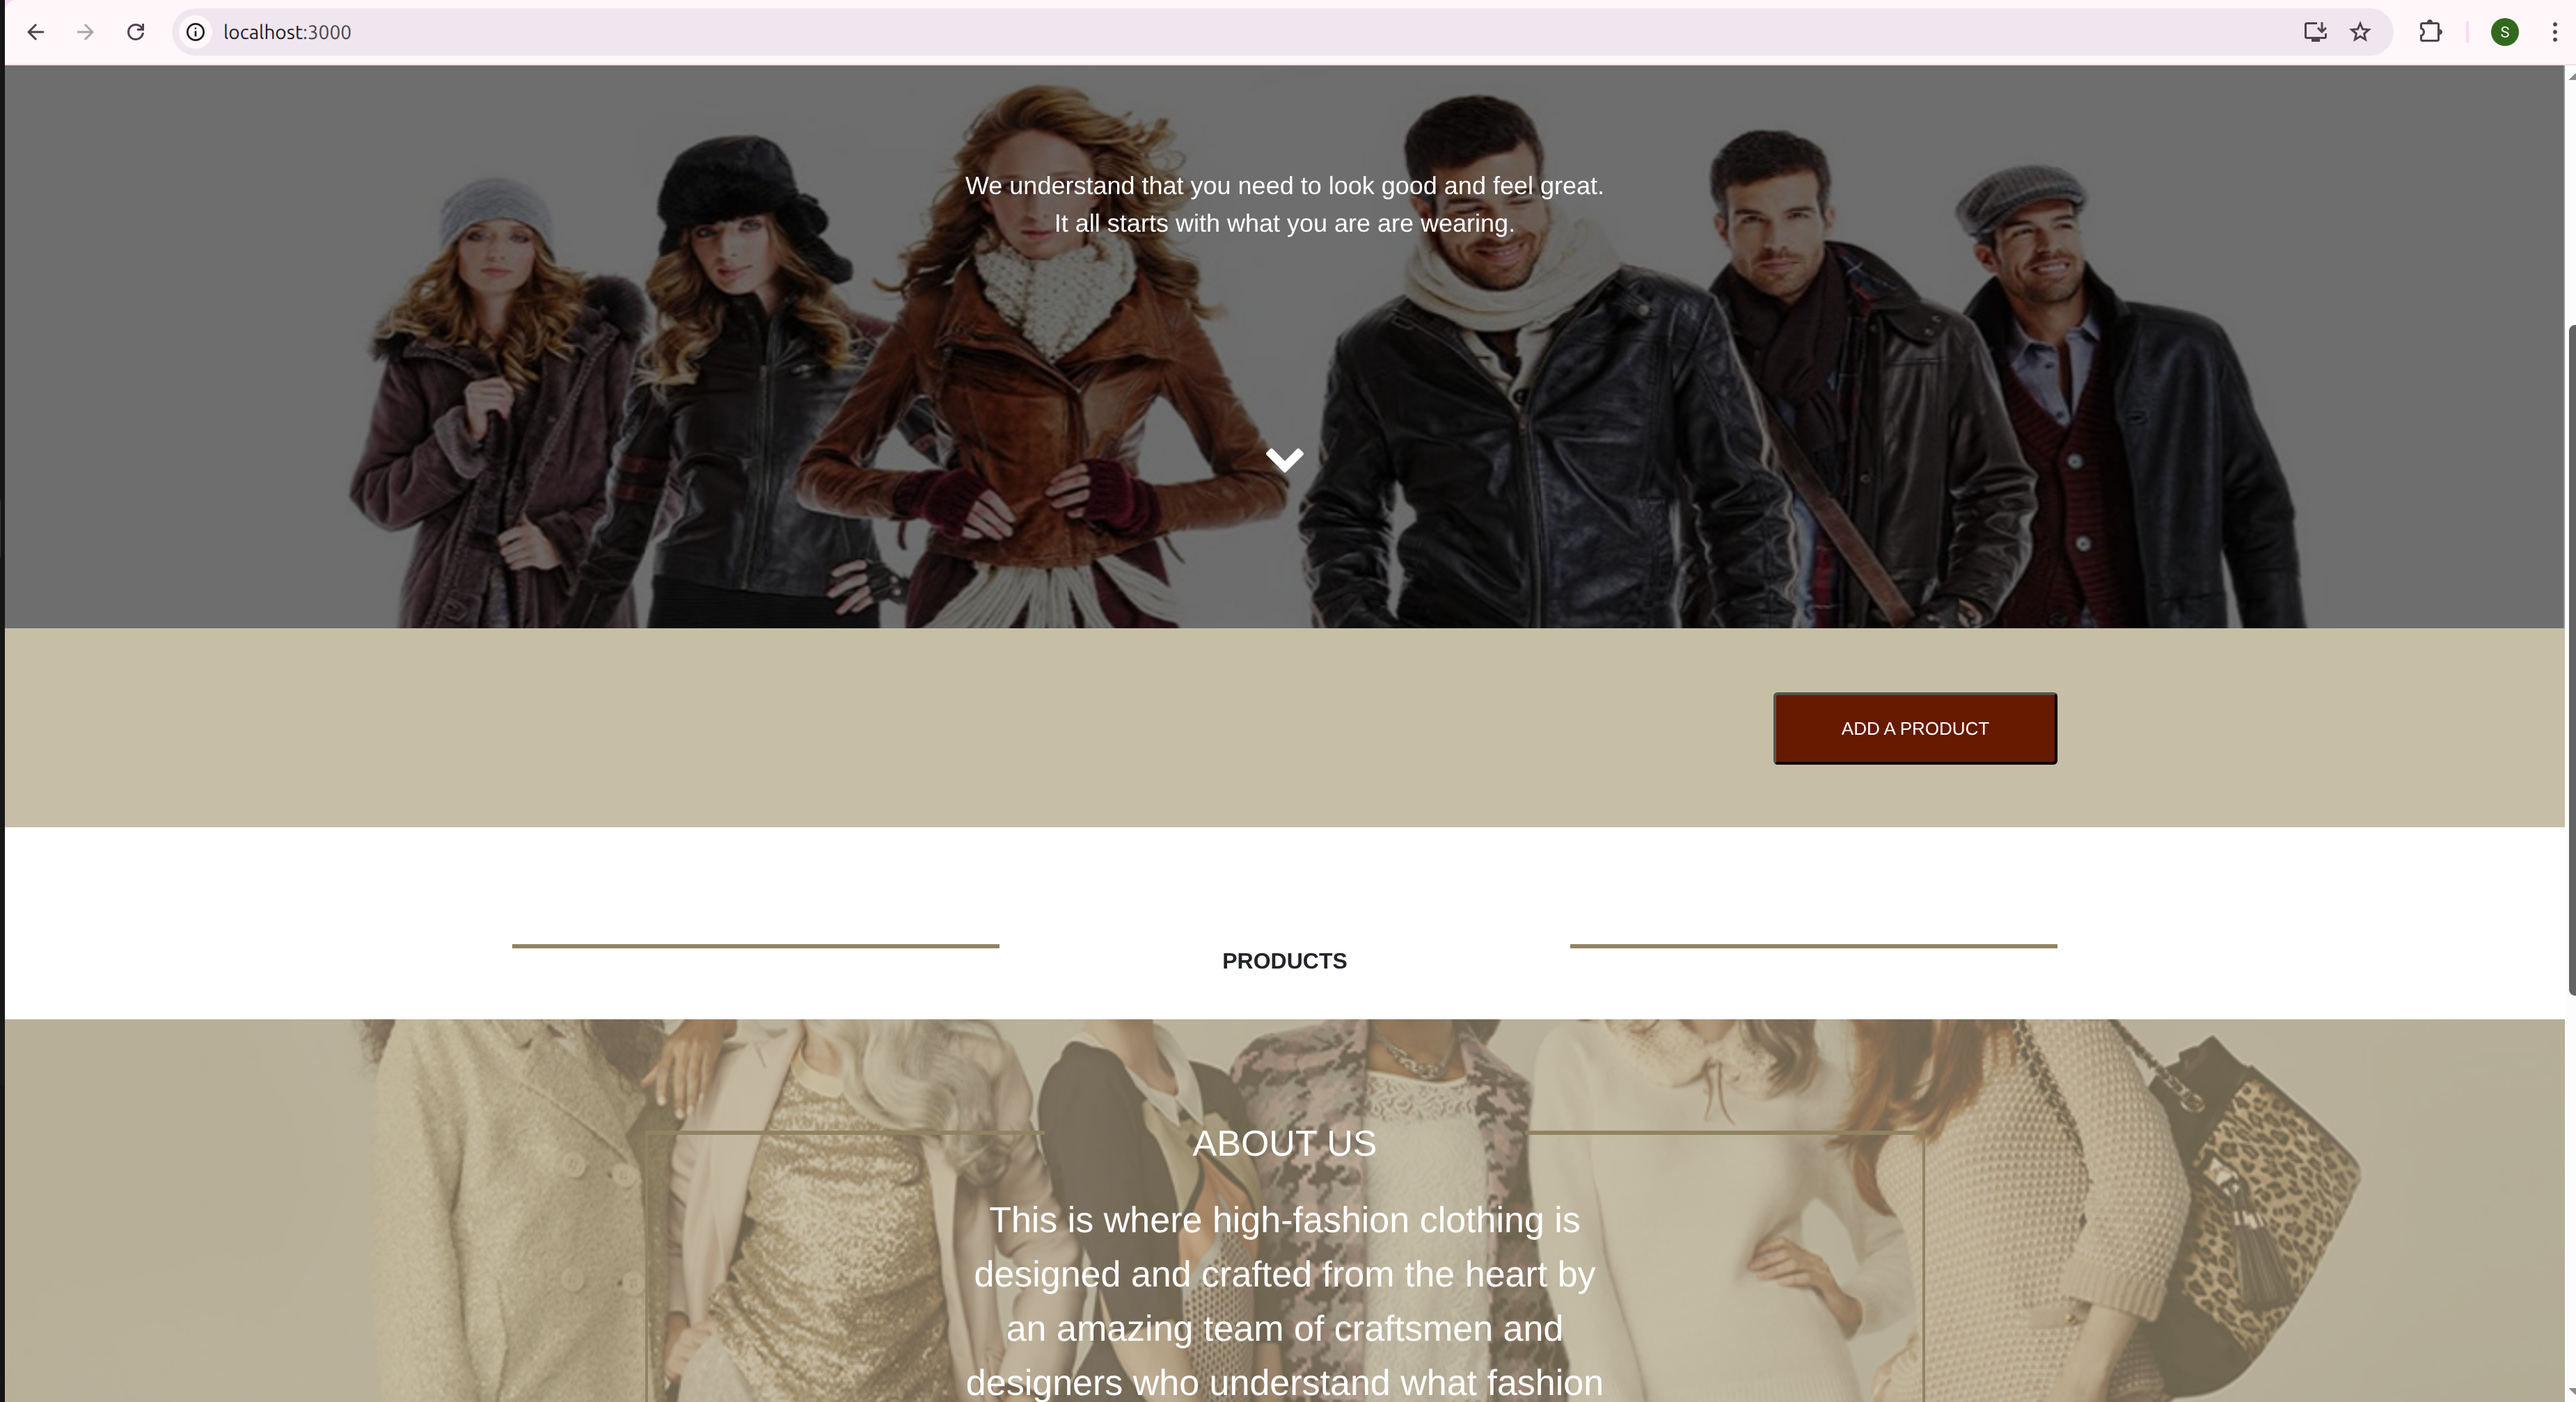
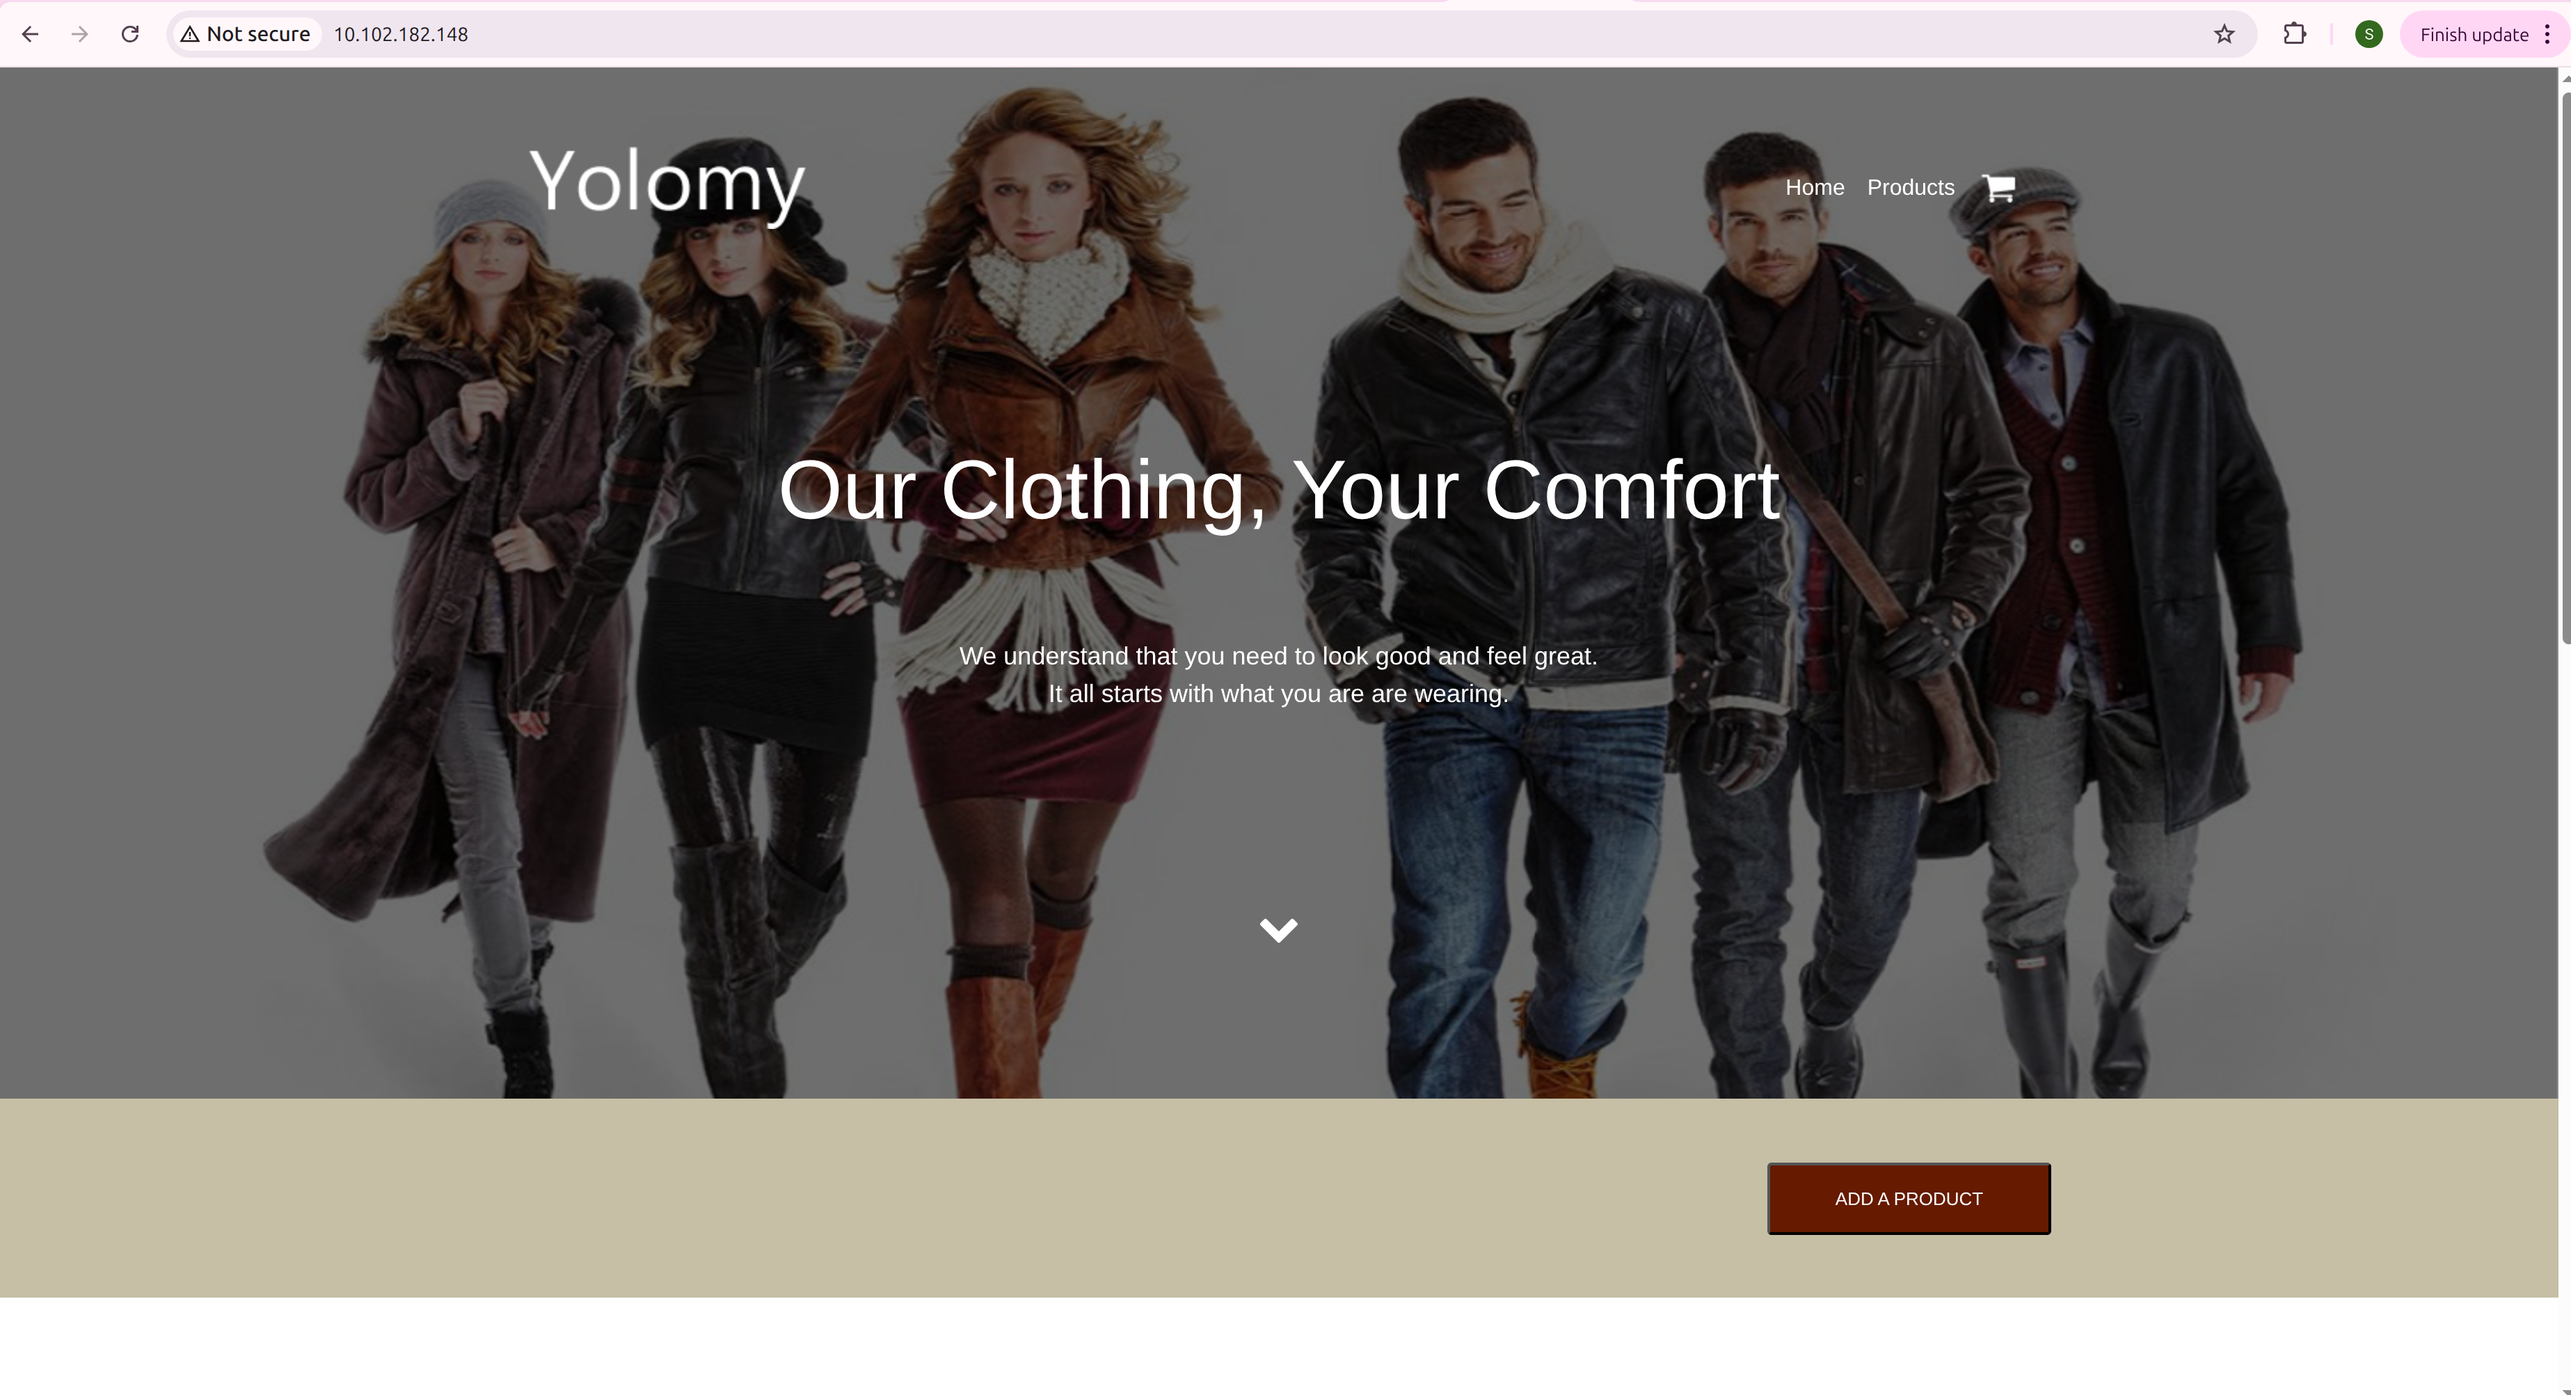
Updated the README.md documentation

diff --git a/README.md b/README.md
@@ -2,12 +2,15 @@
 
 ## 1. Project Overview
 
-This project focused on containerizing a pre-existing application built with Node.js, React and MongoDB. The final outcome is a fully operational e-commerce platform that enables users to browse, add, and maintain product data, even after containers are stopped or restarted.
-The entire environment is launched via a single docker compose command, ensuring maximum portability and ease of deployment.
+This project focuses on containerizing and orchestrating a full-stack e-commerce application built using Node.js (Backend), React (Frontend) and MongoDB (Database).
+
+In this week’s Independent Project (Week 8 IP4 – Orchestration), the application is deployed on Google Kubernetes Engine (GKE) using multiple Kubernetes objects for high availability, persistence and scalability.
+
+Users can browse, add and manage product data seamlessly — with data persistence ensured even after Pod or Node restarts via PersistentVolumes and a StatefulSet for MongoDB.
 
 ## 2. Architecture and Microservices
 
-The application is broken down into three distinct microservices, all connected via a dedicated Docker bridge network (app-net):
+The system is divided into three microservices connected through a dedicated Kubernetes network and managed by a set of Kubernetes manifests.
 
 (i) brain-yolo-client - React, Node.js - Frontend Dashboard - Host Port 3000
 
@@ -109,19 +112,21 @@ YOLO/
 ```
 ---
 
-## 4. Requirement 
+## 4. Prerequisites 
 
-- To successfully build and run this application, you must have the following software installed on your host machine:
+Ensure the following tools are installed and configured:
 
-- Docker Engine: For building and running containers.
-```bash
-- Install Docker Engine
-```
-- Git: For cloning the repository.
+Docker Engine – for building images
 
-## 5. Deployment and Launch
+kubectl – for Kubernetes cluster management
 
-Follow these steps to clone the repository, build the images and launch the entire application stack:
+Google Cloud SDK (gcloud) – for GKE authentication and deployment
+
+Git – for version control
+
+DockerHub Account – to store tagged images
+## 5. Deployment on Google Kubernetes Engine(GKE)
+
 
 ### Step 5.1: Clone the Repository
 
@@ -132,78 +137,119 @@ Navigate to your preferred directory and clone the project:
  git clone https://github.com/SanthaC/yolo
 - cd yolo 
 ```
-### Step 5.2: Build and Run Containers (Using Docker Compose)
 
-The docker-compose.yaml file defines the build instructions, service dependencies, networking and volume setup.
-
-Execute the following command from the project root directory. The -d flag runs the containers in detached mode:
+### Step 5.2: Create GKE Cluster
+#### Step 5.2.1: Make sure you have:
 ```bash
-docker compose up --build -d
+sudo apt update
+sudo apt install -y kubectl google-cloud-sdk
+
 ```
-Allow 1-2 minutes for the initial images to build and the MongoDB service to initialize.
-
-### Step 5.3: Verify Container Status
-
-After running the command above, use docker ps to confirm that all three microservices are up and running:
+#### Step 5.2.2: Login to Google Cloud
 ```bash
-docker ps
+gcloud auth login
+gcloud config set project cryptic-ground-477217-i2
+
 ```
-You should see all three containers (client, backend and mongo) listed with a STATUS of Up.
+#### Step 5.2.3: Create a cluster
+```bash
+gcloud container clusters create yolo-cluster --num-nodes=3
+gcloud container clusters get-credentials yolo-cluster
 
-![Docker containers running](./client/src/images/screenshots/successful-container-running.png)
+```
+### Step 5.3: Build and Push Docker Images
+As a project deliverable, the custom-built images for the client and backend services have been successfully pushed to the public DockerHub registry, ensuring they are versioned and universally available for deployment.
+
+![Docker Hb repo](./client/src/images/screenshots/Docker-repo.png)
+
+The screenshot above confirms the successful push and the use of the required Semantic Versioning (v1.0.0) tag, satisfying the Image Deployment and Image Versioning criteria.
+```bash
+docker build -t santhac/brian-yolo-client:v1.0.1 .
+docker build -t santhac/brian-yolo-backend:v1.0.1 .
+
+docker push santhac/brian-yolo-client:v1.0.1
+docker push santhac/brain-yolo-backend:v1.0.0
+
+```
+### Step 5.4: Deploy MongoDB Stateful
+```bash
 
 
-### Step 5.4: Access the Application
+```
+### Step 5.5: Deploy Backend and Frontend(Client)
+```bash
+kubectl apply -f frontend-deployment.yaml
+kubectl apply -f backend-deployment.yaml
 
-Once the containers are running, the e-commerce dashboard will be available at:
+```
+### Step 5.6: Verify Deployments
+```bash
+kubectl get pods
+kubectl get svc
 
-http://localhost:3000
+```
+![Verfying Deployment](./client/src/images/screenshots/kubectl-pods/services.png)
+## 7. Accessing the Application
+Run
+```bash
+kubectl get svc
+
+```
+Then access the platform via:
+```bash
+http://10.102.182.148/
+
+```
 ![Web Application Screenshot](./client/src/images/screenshots/web-application.png)
 
+## 8. Testing Functionality and Persistence
 
-
-## 6. Functionality and Persistence Test (The Core Deliverable)
-
-The successful launch of the application confirms Service Orchestration. Use the following steps to confirm data persistence, a critical objective of this project:
-
-### Test 6.1: Add a Product
-Access the dashboard at http://localhost:3000.
-
+### Step 8.1: Add Product
 Use the "Add Product" form.
 
 Crucially, ensure the "Price" field contains a valid number (e.g. 10.50), as non-numeric input will fail backend validation.
 
 Add the product. It should immediately appear in the list.
 
-### Test 6.2: Confirm Persistence
-
-Stop the entire application stack (this simulates a system shutdown):
+### Step 8.2: Validate Persistence
+Delete the MongoDB pod:
 ```bash
-docker compose down
+kubectl delete pod <mongo-pod-name>
+
 ```
-
-This command shuts down the containers but preserves the persistent named volume, app-mongo-data.
-
-Restart the application:
-```bash
-docker compose up -d
-```
-
-![Terminal Image](./client/src/images/screenshots/terminal-image.png)
-
-Verify Data: Refresh the browser at http://localhost:3000. The product added in Step 5.1 must still be visible. If it is present, data persistence is confirmed via the custom Docker Volume setup.
+Kubernetes recreates the Pod automatically, but data remains intact (thanks to PersistentVolume + StatefulSet).
 ![Successful Product added](./client/src/images/screenshots/persistent-web-data.png)
 
-## 7. Docker Image Deployment Status
+## 9. Kubernetes Object Summary
+(i)Frontend(client) - Deployment + LoadBalanacer service - UI exposure and scaling
+(ii)Backend - Deployment + ClusterIP service - REST API login and internal networking
+(iii)Database - Stateful + PVC + PV - Persistent data Storage
+(iv)Namespace - Namespace Resource isolation
 
-As a final project deliverable, the custom-built images for the client and backend services have been successfully pushed to the public DockerHub registry, ensuring they are versioned and universally available for deployment.
+## 10. Semantic Versioning and DockerHub
+All images use semantic version tags (v1.0.0) for consistency and traceability.
+DockerHub repo:
+📦 https://hub.docker.com/repository/docker/santhac
 
-![Docker Hb repo](./client/src/images/screenshots/docker-repo.png)
+## 11. Troubleshooting and Debugging Measures
+Used kubectl logs to inspect backend and MongoDB errors.
 
-The screenshot above confirms the successful push and the use of the required Semantic Versioning (v1.0.0) tag, satisfying the Image Deployment and Image Versioning criteria.
+Validated service connectivity via kubectl exec -it and curl commands.
 
-## 7. Technical Deep Dive
+Adjusted MongoDB connection strings to use Kubernetes DNS names (mongo-service:27017).
 
-For an in-depth explanation of image choices, network setup using a custom bridge, persistent volume configuration and the troubleshooting process for resolving environment-related issues, please consult the project documentation:
+Ensured readiness/liveness probes for backend pods.
 
-explanation.md (located in the repository root).
+## 12. Reference
+Kubernetes Documentation – StatefulSets
+
+Google Kubernetes Engine (GKE)
+
+DockerHub Semantic Versioning
+
+✅ 13. Final Deliverables
+GitHub Repository: https://github.com/SanthaC/yolo
+
+Live Application: http://10.102.182.148/
+
+Explanation File: explanation.md (includes justification for object choices, exposure method and persistence strategy)
